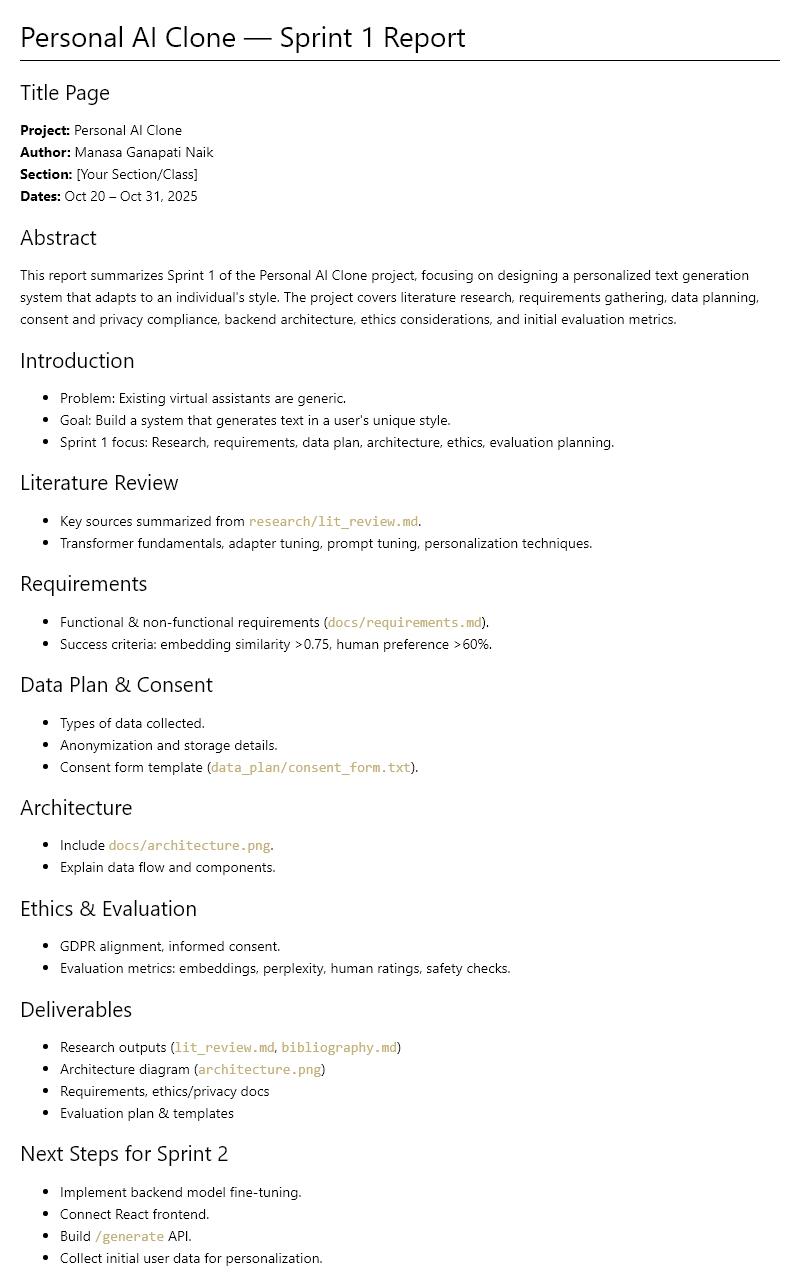
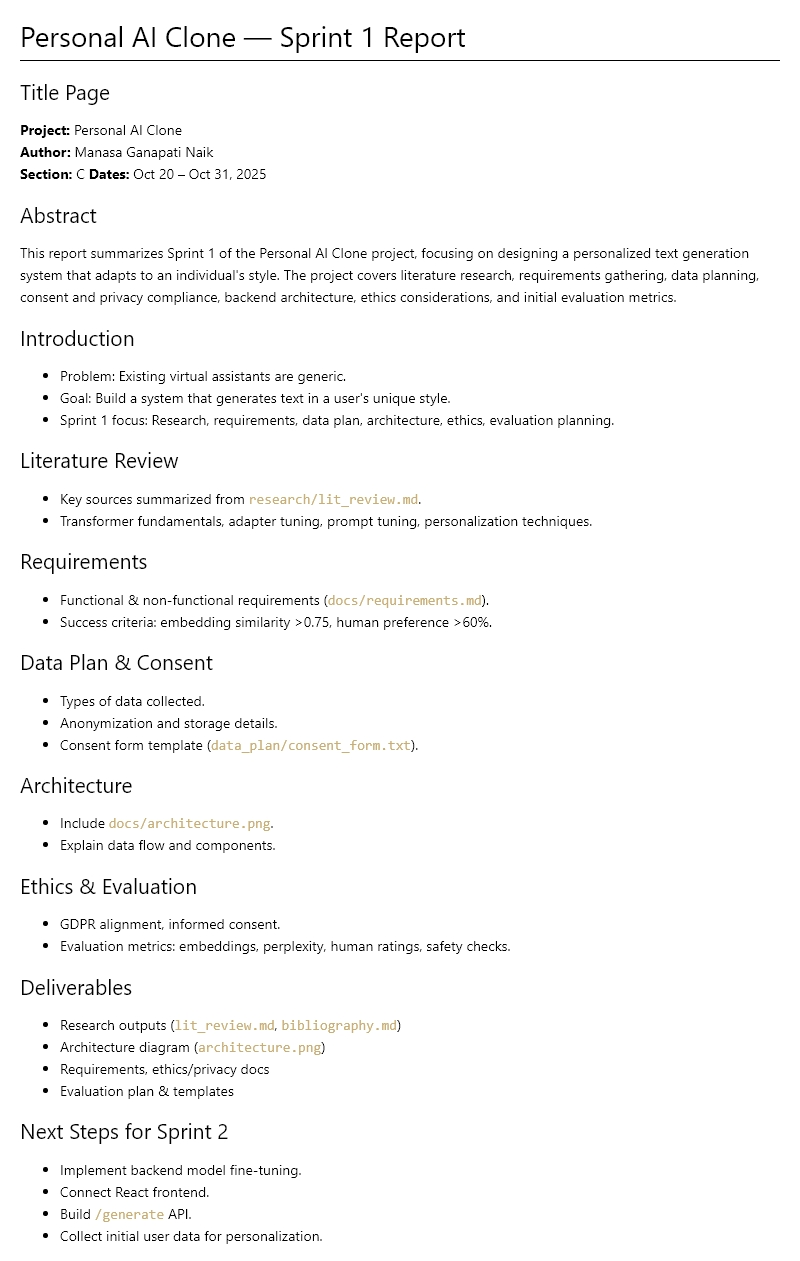
docs: update Sprint 1 report assets (HTML, JPEG, PNG)

diff --git a/docs/sprint1_report.html b/docs/sprint1_report.html
@@ -369,7 +369,7 @@ code {
 <h2 id="title-page">Title Page</h2>
 <p><strong>Project:</strong> Personal AI Clone<br>
 <strong>Author:</strong> Manasa Ganapati Naik<br>
-<strong>Section:</strong> [Your Section/Class]<br>
+<strong>Section:</strong> C
 <strong>Dates:</strong> Oct 20 – Oct 31, 2025</p>
 <h2 id="abstract">Abstract</h2>
 <p>This report summarizes Sprint 1 of the Personal AI Clone project, focusing on designing a personalized text generation system that adapts to an individual's style. The project covers literature research, requirements gathering, data planning, consent and privacy compliance, backend architecture, ethics considerations, and initial evaluation metrics.</p>
